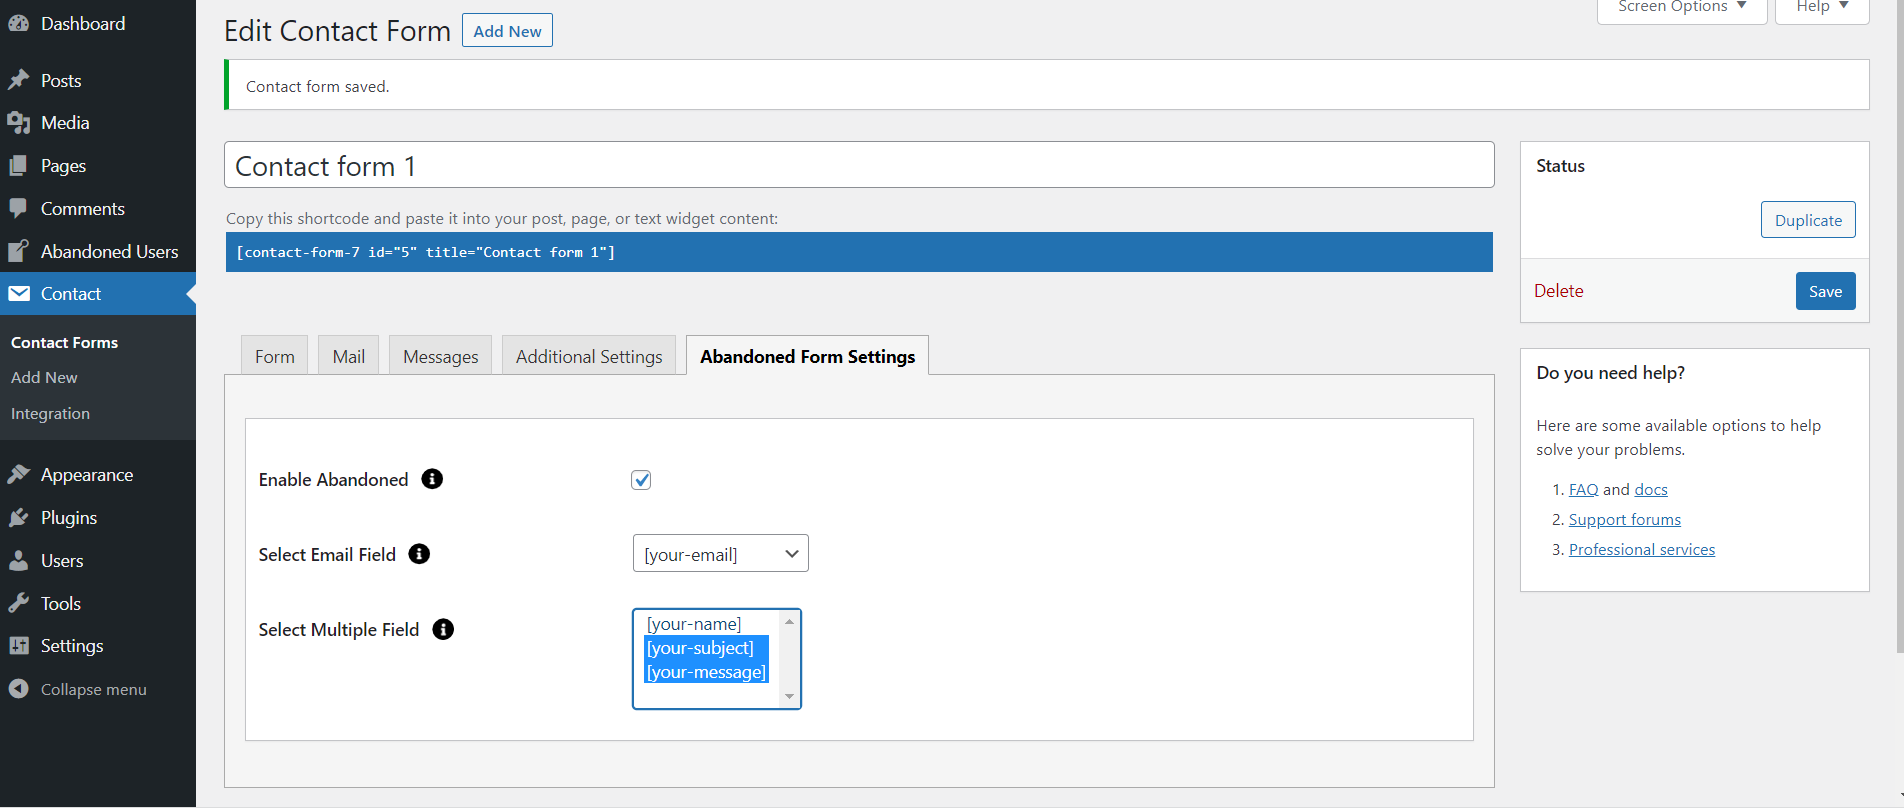
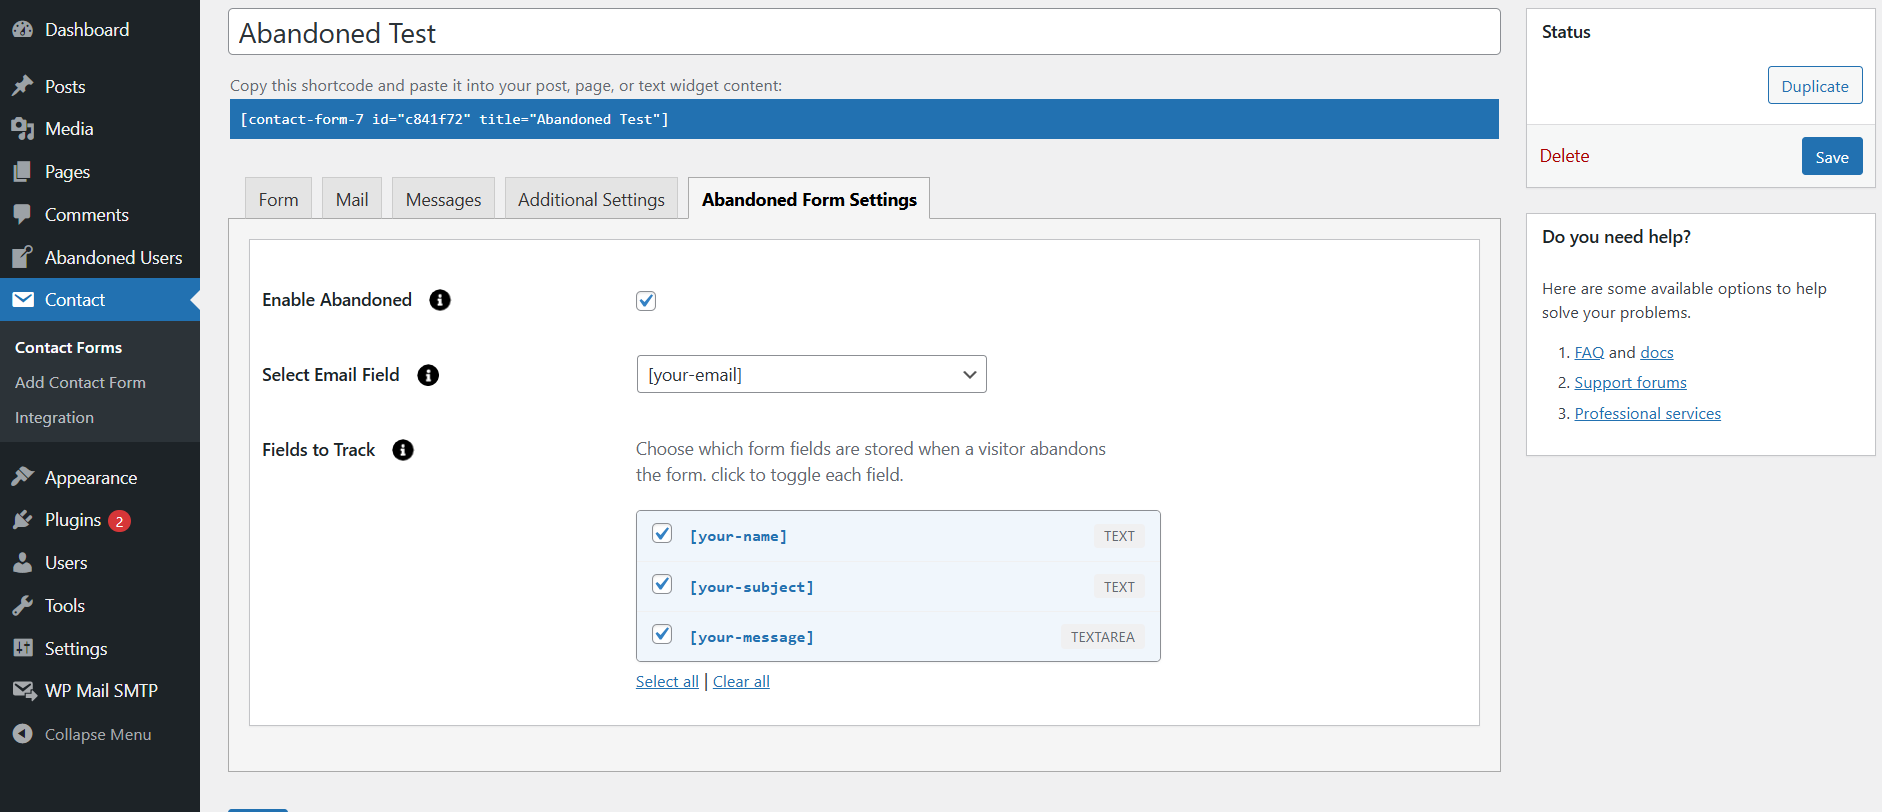
Unused code and version added

diff --git a/abandoned-forms-contact-form-7.php b/abandoned-forms-contact-form-7.php
@@ -3,7 +3,7 @@
  * Plugin Name: Abandoned Contact Form 7
  * Plugin URL: https://wordpress.org/plugins/abandoned-contact-form-7/
  * Description: Abandoned Contact Form 7 provides an ability to track the data from Contact Form 7 even if the user does not submit the form.
- * Version: 2.3
+ * Version: 2.4
  * Author: ZealousWeb
  * Author URI: https://www.zealousweb.com
  * Developer: The Zealousweb Team
@@ -23,11 +23,11 @@ if ( !defined( 'ABSPATH' ) ) exit;
  * Basic plugin definitions
  *
  * @package Abandoned Contact Form 7
- * @since 2.3
+ * @since 2.4
  */
 
 if ( !defined( 'CF7AF_VERSION' ) ) {
-	define( 'CF7AF_VERSION', '2.3' ); // Version of plugin
+	define( 'CF7AF_VERSION', '2.4' ); // Version of plugin
 }
 
 if ( !defined( 'CF7AF_FILE' ) ) {